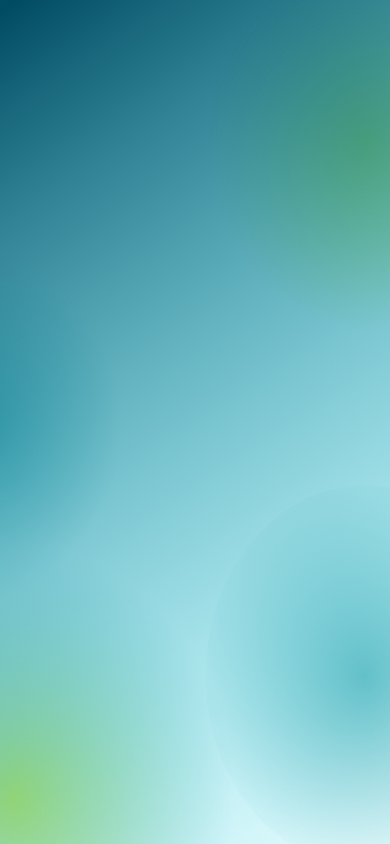
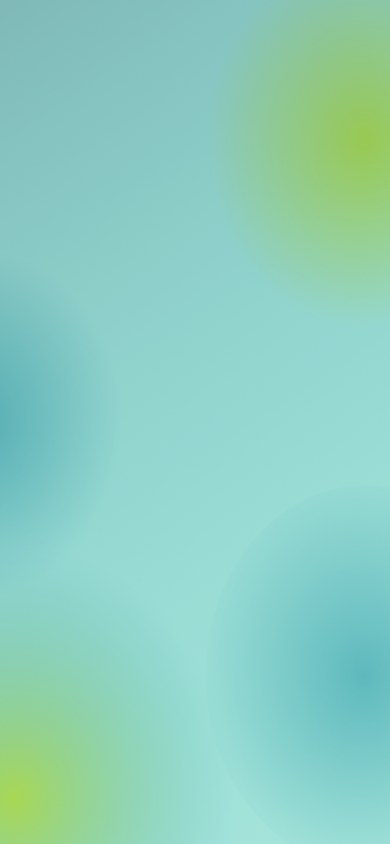
sign in page fixed

diff --git a/frontend/WriteGirl/src/pages/SignInPage/SignInPageStyles.js b/frontend/WriteGirl/src/pages/SignInPage/SignInPageStyles.js
@@ -3,8 +3,10 @@ const { width, height } = Dimensions.get('window');
 
 
 const styles = StyleSheet.create({
+    bigView: {
+        backgroundColor: '#B1E5D9',
+    },
     container: {
-        // backgroundColor: '#0D4D5E',
         display: 'flex',
         height: height,
         width: width,
@@ -19,15 +21,16 @@ const styles = StyleSheet.create({
     }, 
     screensaverBg: {
         display: 'flex',
-        opacity: 0.7,
+        opacity: 1,
         height: height,
         width: width,
     },
     imageView: {
-        width: '60%',
+        width: '80%',
         height: 104,
-        marginLeft: '20%',
-        marginTop: '20%'
+        // marginLeft: '20%',
+        marginTop: '20%',
+        alignSelf: 'center'
     },
     image: {
         width: '100%',
@@ -38,9 +41,9 @@ const styles = StyleSheet.create({
         fontWeight: 700,
         color: "#fff",
         fontSize: 30,
-        marginTop: "5%",
+        marginTop: "10%",
         marginLeft: "10%",
-        marginBottom: '5%',
+        // marginBottom: '5%',
     },
     subTitleText: {
         fontWeights: "bold",
@@ -54,7 +57,7 @@ const styles = StyleSheet.create({
         // placeholderTextColor: "#003f5c",
         backgroundColor: '#fff',
         borderColor: '#000',
-        borderWidth: 2,
+        borderWidth: 1,
         borderRadius: 15,
         width: 250,
         padding: 10,
@@ -67,7 +70,7 @@ const styles = StyleSheet.create({
         alignSelf: "flex-end",
         color: "#fff",
         marginRight: "10%",
-        marginTop: '2%',
+        marginTop: '3%',
     },
     subButtonText: {
         fontSize: 16,
@@ -86,7 +89,7 @@ const styles = StyleSheet.create({
         marginTop: '10%',
     },
     loginText: {
-        fontWeight: 600,
+        fontWeight: 400,
         color: "#0d4d5e",
         fontSize: 25,
     },

diff --git a/frontend/WriteGirl/src/pages/SignInPage/SignInPage.js b/frontend/WriteGirl/src/pages/SignInPage/SignInPage.js
@@ -48,7 +48,7 @@ export default function Sign_In_Page({navigation}) {
     }
 
     return (         
-      <NativeBaseProvider>
+      <NativeBaseProvider style={styles.bigView}>
         <ImageBackground source={require('./background.png')} resizeMode="cover" style={styles.screensaverBg}>
         <SafeAreaView >
             <KeyboardAwareScrollView style={styles.container}>
